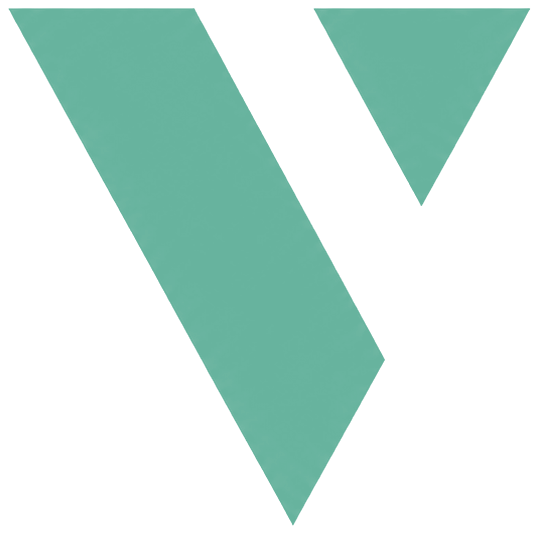
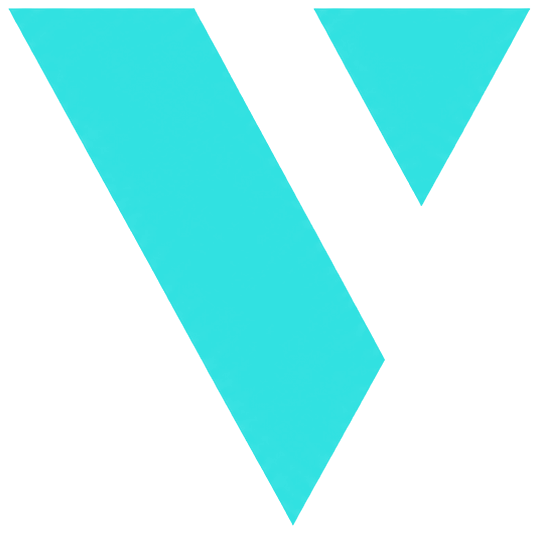
Unifica el color de acento de la web con el cian de la identidad de marca (tarjetas de visita)
Sustituye los verdes salvia (#619181 / #96AA86) por el cian #31E1E1 en
styles.css, el logo vantage-mark.webp y el favicon.

diff --git a/styles.css b/styles.css
@@ -43,7 +43,7 @@
   --bg-raise:    #101010;
   --ink:         #F4F4F1;
   --ink-mute:    #9B9B95;
-  --accent:      #96AA86;
+  --accent:      #31E1E1;
   --line:        rgba(244, 244, 241, .14);
   --line-strong: rgba(244, 244, 241, .28);
 
@@ -117,7 +117,7 @@ ol, ul { list-style: none; padding: 0; }
   font-weight: 600;
   letter-spacing: .16em;
   text-transform: uppercase;
-  color: #619181;
+  color: #31E1E1;
 }
 
 .link-arrow {
@@ -264,7 +264,7 @@ ol, ul { list-style: none; padding: 0; }
   display: block;
   width: 72px;
   height: 1px;
-  background: #619181;
+  background: #31E1E1;
 }
 .hero-kicker-sub {
   font-family: var(--head);
@@ -272,7 +272,7 @@ ol, ul { list-style: none; padding: 0; }
   font-weight: 600;
   letter-spacing: .16em;
   text-transform: uppercase;
-  color: #619181;
+  color: #31E1E1;
 }
 .hero-tagline {
   font-size: clamp(1.2rem, 2.4vw, 1.6rem);
@@ -289,7 +289,7 @@ ol, ul { list-style: none; padding: 0; }
   gap: 1.6rem;
 }
 .hero-cta { color: var(--ink); }
-.hero-proof { color: #619181; }
+.hero-proof { color: #31E1E1; }
 .hero-trust {
   margin-top: 1.6rem;
   display: flex;
@@ -314,7 +314,7 @@ ol, ul { list-style: none; padding: 0; }
   transform: translateY(-50%);
   width: 5px;
   height: 5px;
-  background: #619181;
+  background: #31E1E1;
   border-radius: 50%;
 }
 
@@ -387,7 +387,7 @@ section { padding-block: var(--section-pad); }
   flex: 0 0 auto;
   width: 22px;
   height: 22px;
-  color: #619181;
+  color: #31E1E1;
 }
 
 /* --- Portfolio --- */
@@ -426,7 +426,7 @@ section { padding-block: var(--section-pad); }
 }
 .project-type {
   font-size: .88rem;
-  color: #619181;
+  color: #31E1E1;
 }
 .project-desc {
   color: var(--ink-mute);
@@ -456,7 +456,7 @@ section { padding-block: var(--section-pad); }
   font-weight: 300;
   font-size: clamp(1.8rem, 3vw, 2.4rem);
   color: transparent;
-  -webkit-text-stroke: 1px #619181;
+  -webkit-text-stroke: 1px #31E1E1;
   margin-bottom: .7rem;
 }
 .process-list h3 {
@@ -515,7 +515,7 @@ section { padding-block: var(--section-pad); }
   font-weight: 300;
   font-size: clamp(2rem, 3.4vw, 2.8rem);
   color: transparent;
-  -webkit-text-stroke: 1px #619181;
+  -webkit-text-stroke: 1px #31E1E1;
 }
 .why-body h3 {
   font-family: var(--head);
@@ -533,14 +533,13 @@ section { padding-block: var(--section-pad); }
 }
 
 /* --- VANTAGE CHECK --- */
-/* Color de acento propio de esta sección — no toca --accent global (sage,
-   usado en el resto del sitio). Todo lo que dentro de .vantage-ai use
-   var(--accent) hereda automáticamente este verde por cascada de CSS. */
+/* Mismo acento oficial (cian de marca) que el resto del sitio. Todo lo que
+   dentro de .vantage-ai use var(--accent) lo hereda por cascada de CSS. */
 .vantage-ai {
-  --accent: #619181;
+  --accent: #31E1E1;
   border-top: 1px solid var(--line);
 }
-.vantage-ai .btn:hover { background-color: #70A091; }
+.vantage-ai .btn:hover { background-color: #40F0F1; }
 
 .ai-form {
   display: flex;
@@ -701,7 +700,7 @@ section { padding-block: var(--section-pad); }
 /* Mismo acento oficial que VANTAGE CHECK, solo en lo que ya usaba color de
    acento aquí (el kicker "SOBRE NOSOTROS") — el resto del texto no cambia. */
 .about {
-  --accent: #619181;
+  --accent: #31E1E1;
   border-top: 1px solid var(--line);
 }
 .about-inner {
@@ -746,7 +745,7 @@ section { padding-block: var(--section-pad); }
   display: block;
   width: 0;
   height: 1px;
-  background: #619181;
+  background: #31E1E1;
   transition: width 1s var(--ease-soft) .5s;
 }
 .about-visual.is-revealed .about-mark { opacity: 1; transform: scale(1); }
@@ -770,11 +769,11 @@ section { padding-block: var(--section-pad); }
 /* --- Contact --- */
 /* Mismo acento oficial que VANTAGE CHECK, solo para el botón final. */
 .contact {
-  --accent: #619181;
+  --accent: #31E1E1;
   border-top: 1px solid var(--line);
   text-align: center;
 }
-.contact .btn:hover { background-color: #70A091; }
+.contact .btn:hover { background-color: #40F0F1; }
 .contact-inner {
   display: flex; flex-direction: column; align-items: center;
   gap: 1.1rem;
@@ -816,7 +815,7 @@ section { padding-block: var(--section-pad); }
   transition: border-color .3s var(--ease-out);
 }
 .contact-field input:focus,
-.contact-field textarea:focus { outline: none; border-color: #619181; }
+.contact-field textarea:focus { outline: none; border-color: #31E1E1; }
 .contact-form .btn { align-self: center; }
 .btn {
   margin-top: .8rem;
@@ -829,7 +828,7 @@ section { padding-block: var(--section-pad); }
   padding: .95rem 1.9rem;
   transition: transform .4s var(--ease-out), background-color .4s var(--ease-out);
 }
-.btn:hover { transform: translateY(-2px); background-color: #A5B996; }
+.btn:hover { transform: translateY(-2px); background-color: #40F0F1; }
 .contact-links {
   margin-top: 1.4rem;
   display: flex; gap: 1.6rem; flex-wrap: wrap; justify-content: center;
@@ -868,7 +867,7 @@ section { padding-block: var(--section-pad); }
 
 /* --- Cookie banner --- */
 .cookie-banner {
-  --accent: #619181;
+  --accent: #31E1E1;
   position: fixed;
   left: 1.2rem;
   bottom: max(1.2rem, calc(env(safe-area-inset-bottom, 0px) + .7rem));
